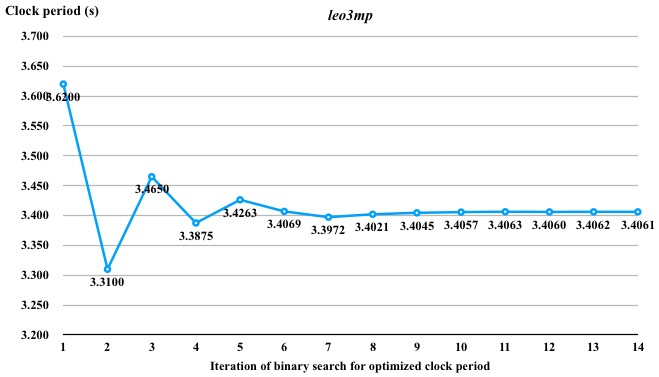
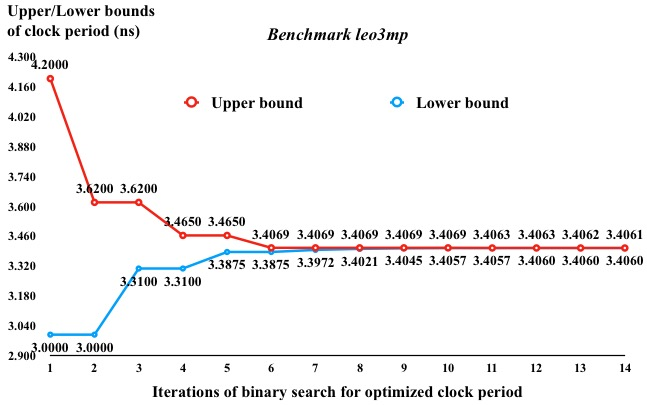
18/8/21 Add description for Tc calibration and Clause count variation during BS

diff --git a/DATE2018/exp.tex b/DATE2018/exp.tex
@@ -35,12 +35,11 @@ In Table~\ref{table:exp2}, Column 2  demonstrates the fresh clock period that is
 For benchmark \textit{des\_perf}, $T_{c\_fresh}$ is 773.9ps and $T_{c\_aged}$ is 897.8ps, which means after 10-year aging the clock period of circuit will increase by 123.9ps. With DCC insertion using the proposed framework, the clock period achieved is 849.9ps, an increment of 76ps against $T_{c\_fresh}$ (38.66\% improvement). With high-$V_{th}$ assignment applied on top of DCC insertion, the clock period drops to 816.8ps, a smaller increment of 42.9ps against $T_{c\_fresh}$ (65.38\% improvement), implying better aging tolerance. As shown in Table~\ref{table:exp2}, with DCC deployment, the improvement ranges from 7.38\% to 49.77\% and is 24.95\% on average; with high-$V_{th}$ assignment applied on top of DCC deployment, we can achieve better improvement, ranging from 13.97\% to 65.97\% and being 37.61\% on average. The count of inserted DCCs is between 1 (for benchmark \textit{s13207} and \textit{netcard}) to 35 (for benchmark \textit{des\_perf}). The inserted DCC count only has the small proportion of the total buffer count (e.g., at most 3.4\%($= 13/376$) for \textit{s38417}), implying very limited degree of circuit modification and insignificant design overhead. %Moreover, as it can be seen in Column 8 to 12, when high-$V_{th}$ assignment for clock buffers is incorporated in the proposed framework, the resulting framework can give rise to lower clock periods (Column 8), implying better improvement in aging tolerance. 
 
 \subsection{Discussion: DCC Redeployment due to High-$V_{th}$ Assignment for Clock Buffers}
-As we can see, the DCC counts in Column 9 are different from those in Column 5, implying that DCCs are redeployed in the clock tree while high-$V_{th}$ assignment is incorporated in the framework. More specifically, when high-$V_{th}$ assignment is considered, some clock buffers become candidate buffers to be inserted DCCs at their inputs, because timing constraints (i.e., setup-time and hold-time) are met based on the inequality Equation~(\ref{eq:tsu}) and (\ref{eq:th}). In this way, DCCs can be redeployed to obtain lower clock periods, exploring better improvement in aging tolerance.
+As we can see, the DCC counts in Column 9 are different from those in Column 5, implying that DCCs are redeployed in the clock tree while high-$V_{th}$ assignment is incorporated in the framework. 
+To be specific, before high-$V_{th}$ assignment is incorporated, certain DCC deployment is not allowed because of the violation of timing constraints based on inequality Equation~(\ref{eq:tsu}) and (\ref{eq:th}). Then, after high-$V_{th}$ assignment is considered, some clock buffers become candidate buffers to be inserted DCCs at their inputs, because timing constraints are met. 
 
+For instance, given a clock path $P_{clk}$, a clock buffer $B$ existing along $P_{clk}$, and an associated critical path $P_{comb}$ of $P_{clk}$. Before high-$V_{th}$ assignment is incorporated in the framework, $B$ is not allowed to be inserted any DCC at its input, because the resulting DCC deployment will violate the timing constraints of $P_{comb}$ (i.e., Equation~(\ref{eq:tsu}) and (\ref{eq:th}) are not met). However, when one buffer along $P_{clk}$ is selected as high-$V_{th}$ buffer leader, $B$ becomes allowed to be inserted certain DCCs at its input, because timing constraints of $P_{comb}$ are met. In this way, DCCs can be redeployed to obtain lower clock periods, exploring better improvement in aging tolerance.
 
-%Compare the DCC counts in Column 9 with those in Column 13, we can find that, while $V_{th}^h$ assignment is involved in the framework, it may redeploy the DCCs in the clock tree and thus results in different DCC count. Specifically speaking, when $V_{th}^h$ assignment is considered, some clock buffers become candidate buffers to be inserted DCCs at their inputs, because timing constraints (i.e., setup-time and hold-time) are met based on the inequality Equation (1) and (2). In this way, DCCs can be redeployed to obtain lower clock periods.
-
-%Take \textit{des\_perf} for example, DCC count is 7; however, the DCC count increases to 33 after $V_{th}^h$ assignment is involved. The DCC counts of the same design differ because the DCC deployments are not identical anymore. Specifically speaking, when V\textsubscript{th} assignment is considered, some clock buffers become candidate buffers to be inserted DCC at their inputs, because timing constraints (i.e., setup-time and hold-time) are met based on the inequality Equation (1) and (2), such that DCC can be redeployed to obtain lower Tc. Thus, even thought the two frameworks target the identical benchmark, the DCC deployments/counts may differ. 
 
 \subsection{Discussion: Increase in Runtime}
 In addition, the run time of the framework, incorporating high-$V_{th}$ assignment, increases due to the possibility explosion of DCC deployment and leader selection. To be specific, given a pair of flip-flops and associated clock paths, we need to consider the various possibilities of leader selections, for each DCC deployment. Therefore, the total  count of DCC deployment and leader selection is equal to the combination of DCC deployment plus leader selection, i.e., DCC possibilities multiplied by the leader counterparts, accounting for the increase of run time. 
@@ -68,3 +67,41 @@ Figure~\ref{fig:exp4} shows the change in the duty cycle of a 20\%/80\% DCC over
 \end{figure}
 
 As mentioned in Section~\ref{sec:framework}, inserting DCCs deep in the clock tree is less effective. For benchmark \textit{des\_perf}, we considered the deployment of DCCs at the upper half of the clock tree (i.e., level 1 to 5) and achieved 38.66\% improvement in terms of aging tolerance. As demonstrated in Figure~\ref{fig:boundary}, if we expand the boundary of DCC deployment from level 1 in the clock tree to level 10 progressively, we can gain a considerable improvement from level 1 to 6; however, from 7 to 10, the improvement become stagnant, but more DCCs are required.
+
+
+\subsection{Discussion: Clock period calibrations during binary search}
+\begin{figure}
+    \centering
+    \includegraphics[width=0.7\columnwidth]{leo3mp_Tc.png} %ACM
+    \caption{Calibrations of upper/lower bounds of $T_{c}$ during iterations of binary search}
+    \label{fig:Tc}
+\end{figure}
+
+It is worth reminding that, the proposed framework is based on a binary search for optimized clock period $T_{c}$, with initial two bounds of $T_{c}$ (see Section~\ref{sec:framework} or Figure~\ref{fig:flow}). During the iterations of binary search, the two bounds of $T_{c}$ are calibrated toward a convergent value, based on the satisfiability of the SAT problem, which the problem of DCC deployment and leader selection is formulated as.
+
+Figure~\ref{fig:Tc} shows the calibrations of the two bounds of $T_{c}$ for benchmark $leo3mp$, during iterations of binary search. The X-axis denotes the iteration times of binary search and Y-axis denotes the upper (red line) and lower bounds (blue line) of $T_{c}$. In the 1\textsuperscript{st} iteration of binary search, the upper bound and lower bound are set to 4.24ns and 3ns, respectively. Then, we use the mean value of two bounds (i.e., 3.62ns) to generate the associated CNF clauses based on timing constraints. The CNF clauses are satisfiable from the output of SAT solver, implying that we can explore more lower clock period (i.e., better aging tolerance) by moving the upper bound to 3.62ns, such that the resulting upper and lower bounds are 3.62ns and 3ns, respectively. Then, in the second iteration, we use the mean value of two bounds (i.e., 3.31ns) to generate associated CNF clauses, which are unsatisfiable from the output of SAT solver, implying the clock period 3.31ns is too low, such that we move the lower bound to 3.31ns. In this manner, the upper and lower bounds will converge toward 3.4061ns. The convergent value of 3.406ns is the optimized clock period for aging tolerance.
+
+As observed in Figure~\ref{fig:Tc}, we totally use 14 iterations of binary search to reach the convergent value of $T_{c}$, with the accuracy of third digit below the decimal point. If we degrade the accuracy from the third digit to the second digit, we only need 8 iterations. In this manner, we can nearly save half of the runtime. 
+
+
+\subsection{Discussion: Clause count variations during binary search}
+\begin{figure}
+    \centering
+    \includegraphics[width=0.7\columnwidth]{leo3mp_Cl.png} %ACM
+    \caption{Variations of CNF clause count during iterations of binary search}
+    \label{fig:Cl}
+\end{figure}
+
+During binary search, we generate associated CNF clauses based on timing constraints, i.e., inequality Equation~(\ref{eq:tsu}) and (\ref{eq:th}). 
+As the two bounds of $T_{c}$ vary during binary search, the clause count changes because $T_{c}$ is one timing variable in Equation~(\ref{eq:tsu}) and (\ref{eq:th}). 
+
+Figure~\ref{fig:Cl} plots the clause count in each iteration of binary search, for benchmark $leo3mp$. The clause count depends on the mean value of two bounds of $T_{c}$. If the mean value is too low/high, more/less DCC deployment and more/less leader selection will violate the timing constraints, resulting in more/less associated CNF clauses. For instance, in the 2\textsuperscript{nd} iteration of binary search for benchmark $leo3mp$, the mean value of two bounds is low (3.31ns, see Figure~\ref{fig:Tc}), resulting in large clause count (312798 clauses, see Figure~\ref{fig:Cl}). Thanks to the SAT solver such as MiniSat, we can efficiently solve the SAT problem, which is formulated as CNF clauses, at the cost of less than 10s in each iteration (at most 5.31s for benchmark $leo3mp$).
+
+
+%In each iteration of binary search, we generate associated CNF clauses based on timing constraints (Section~\ref{sec:VTA:timing}), according to the mean value of two bounds of $T_{c}$. Since the values of two bounds vary in each iteration, the count of CNF clauses changes. Figure~\ref{fig:Cl} plots the clause count in each iteration of binary search, for benchmark $leo3mp$. The clause count strongly depends on the mean value of two bounds of $T_{c}$. If the mean value is too low/high, more/less DCC deployment and more/less leader selection will violate the timing constraints, resulting in more/less associated CNF clauses. For instance, in the 2\textsuperscript{nd} iteration of binary search for benchmark $leo3mp$, the mean value of two bounds is low (3.31ns, see Figure~\ref{fig:Tc}), resulting in large clause count (312798 clauses, see Figure~\ref{fig:Cl}). Thanks to the SAT solver such as MiniSat, we can efficiently solve the SAT problem, at the cost of less than 10s in each iteration.
+
+
+
+
+
+
